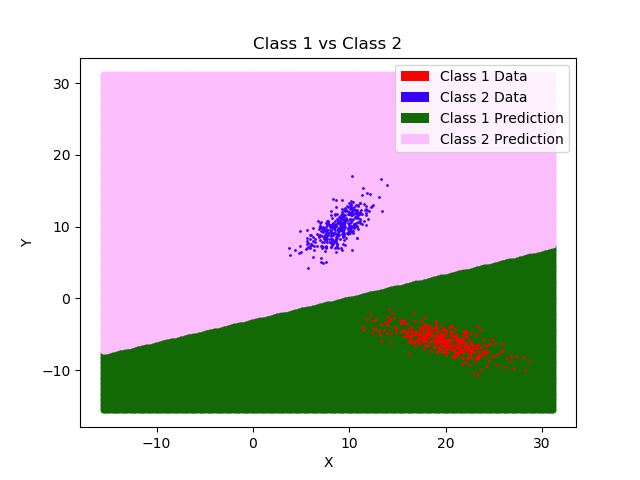
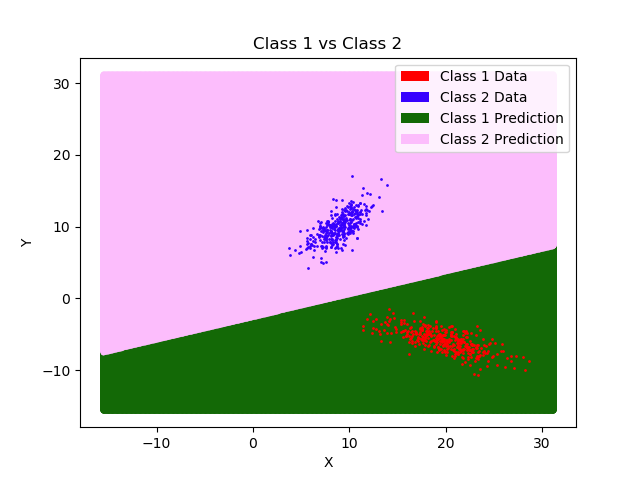
Final plots for data set 1

Changed region(s): [[0.8438, 0.5, 0.875, 0.5312], [0.1562, 0.7188, 0.1875, 0.75]]

diff --git a/assignments/assign-1/lsd.py b/assignments/assign-1/lsd.py
@@ -7,7 +7,7 @@ import math
 def plot(covMat, classname):
 	minMax = np.zeros((numFeature,numFeature))
 	colors = ['#136906', '#fcbdfc', '#e5ff00', '#ff0000', '#3700ff', '#000000']
-	res = 400
+	res = 1000
 	precision = 0.1
 	bkgPointSize = 0.05
 	dataPointSize = 1
@@ -83,8 +83,8 @@ def plot(covMat, classname):
 		if idx==0:
 			ax.plot(yellowX, yellowY, c=colors[1],marker=".",  linestyle="None", label="Class 2 Prediction")
 			ax.plot(blueX, blueY, c=colors[2],marker=".",  linestyle="None", label="Class 3 Prediction")
-			ax.plot(data[1,:,0], data[1,:,1], c=colors[4], marker=".",  linestyle="None", label="Class 2 Data")
-			ax.plot(data[2,:,0], data[2,:,1], c=colors[5], marker=".",  linestyle="None", label="Class 3 Data")
+			ax.plot(data[1,:,0], data[1,:,1], c=colors[4], marker=".",  linestyle="None", label="Class 2 Data", ms='2')
+			ax.plot(data[2,:,0], data[2,:,1], c=colors[5], marker=".",  linestyle="None", label="Class 3 Data", ms='2')
 			class_colours = [colors[4], colors[5], colors[1], colors[2]]
 			classes = ["Class 2 Data", "Class 3 Data", "Class 2 Prediction", "Class 3 Prediction"]
 			plotname = "23"+plotname
@@ -92,16 +92,16 @@ def plot(covMat, classname):
 		elif idx==1:
 			ax.plot(greenX, greenY, c=colors[0],marker=".", linestyle="None", label="Class 1 Prediction")
 			ax.plot(blueX, blueY, c=colors[2],marker=".", linestyle="None", label="Class 3 Prediction")
-			ax.plot(data[0,:,0], data[0, :, 1], c=colors[3], marker=".", linestyle="None", label="Class 1 Data")
-			ax.plot(data[2,:,0],data[2,:,1], c=colors[5], marker=".", linestyle="None", label="Class 3 Data")
+			ax.plot(data[0,:,0], data[0, :, 1], c=colors[3], marker=".", linestyle="None", label="Class 1 Data", ms='2')
+			ax.plot(data[2,:,0],data[2,:,1], c=colors[5], marker=".", linestyle="None", label="Class 3 Data", ms='2')
 			class_colours = [colors[5], colors[3], colors[0], colors[2]]
 			classes = ["Class 1 Data", "Class 3 Data", "Class 1 Prediction", "Class 3 Prediction"]
 			plotname = "13" + plotname
 		elif idx==2:
 			ax.plot(greenX, greenY, c = colors[0],marker=".",  linestyle="None", label="Class 1 Prediction")
 			ax.plot(yellowX, yellowY, c = colors[1],marker=".",  linestyle="None", label="Class 2 Prediction")
-			ax.plot(data[0,:,0],data[0,:,1], c=colors[3], marker=".",  linestyle="None", label="Class 1 Data")
-			ax.plot(data[1,:,0],data[1,:,1], c = colors[4], marker=".",  linestyle="None", label="Class 2 Data")
+			ax.plot(data[0,:,0],data[0,:,1], c=colors[3], marker=".",  linestyle="None", label="Class 1 Data", ms='2')
+			ax.plot(data[1,:,0],data[1,:,1], c = colors[4], marker=".",  linestyle="None", label="Class 2 Data", ms='2')
 			class_colours = [colors[3], colors[4], colors[0], colors[1]]
 			classes = ["Class 1 Data", "Class 2 Data", "Class 1 Prediction", "Class 2 Prediction"]
 			plotname = "12" + plotname
@@ -109,9 +109,9 @@ def plot(covMat, classname):
 			ax.plot(greenX, greenY, c = colors[0],marker=".",  linestyle="None", label="Class 1 Prediction")
 			ax.plot(yellowX, yellowY, c = colors[1],marker=".",  linestyle="None", label="Class 2 Prediction")
 			ax.plot(blueX, blueY, c=colors[2],marker=".",  linestyle="None", label="Class 3 Prediction")
-			ax.plot(data[0,:,0],data[0,:,1], c = colors[3], marker=".",  linestyle="None", label="Class 1 Data")
-			ax.plot(data[1,:,0],data[1,:,1], c = colors[4], marker=".",  linestyle="None", label="Class 2 Data")
-			ax.plot(data[2,:,0],data[2,:,1], c = colors[5], marker=".",  linestyle="None", label="Class 3 Data")
+			ax.plot(data[0,:,0],data[0,:,1], c = colors[3], marker=".",  linestyle="None", label="Class 1 Data", ms='2')
+			ax.plot(data[1,:,0],data[1,:,1], c = colors[4], marker=".",  linestyle="None", label="Class 2 Data", ms='2')
+			ax.plot(data[2,:,0],data[2,:,1], c = colors[5], marker=".",  linestyle="None", label="Class 3 Data", ms='2')
 			class_colours = [colors[3], colors[4], colors[5], colors[0], colors[1], colors[2]]
 			classes = ["Class 1 Data", "Class 2 Data", "Class 3 Data", "Class 1 Prediction", "Class 2 Prediction", "Class 3 Prediction"]
 			plotname = "123" + plotname
